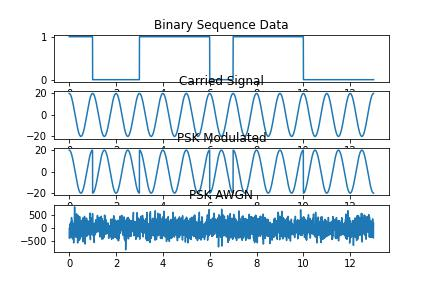
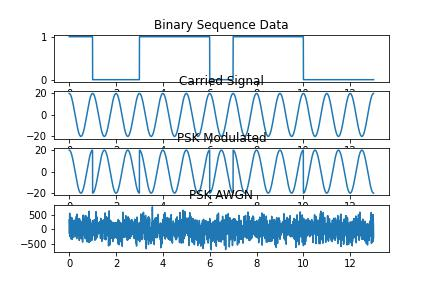
update psk

Changed region(s): [[0.1505, 0.7188, 0.8727, 0.875], [0.0602, 0.7812, 0.1204, 0.875]]

diff --git a/Dat_PSK/psk.py b/Dat_PSK/psk.py
@@ -1,5 +1,6 @@
 # %%
 #import
+import math
 import matplotlib.pyplot as plt
 import numpy as np
 
@@ -15,9 +16,8 @@ n_samples = data.size * samples_per_bit # total samples
 
 time = np.linspace(0, data.size, n_samples) # create time domain
 
-A = 10; #amplitude carrier signal
+A = 20; #amplitude carrier signal
 
-mul = 10
 
 # %%
 #binary seq
@@ -27,12 +27,21 @@ carrier_signal_1 = A*np.cos(2*np.pi * freq * time)
 carrier_signal_2 = A*np.cos(2*np.pi * freq * time + np.pi)
 
 #psk modulation
-phase = np.pi*bnr_seq + np.pi # +180degree if 0 else +360deg
-psk = A*np.cos(2*np.pi * freq * time + phase)
+# phase = np.pi*bnr_seq + np.pi # +180degree if 0 else +360deg
+# psk = A*np.cos(2*np.pi * freq * time + phase)
+psk = []
+for i in range (0,time.size):
+    if bnr_seq[i] == 0:
+       psk.append(carrier_signal_2[i])
+    else:
+       psk.append(carrier_signal_1[i])
+    
+
 #noise 
 
-N0 = 2  #variance
-noise = 10 * np.sqrt(N0/2) * np.random.randn(n_samples) 
+N0 = 1000  #variance
+mul = 10  # noise's magnitude
+noise = mul * np.sqrt(N0/2) * np.random.randn(n_samples) 
 #r: psk with noise
 r = psk + noise
 
@@ -41,21 +50,30 @@ r = psk + noise
 plt.subplot(4, 1, 1)
 plt.plot(time, bnr_seq)
 plt.title("Binary Sequence Data")
+# plt.savefig('./pic/data.jpg')
+# plt.show()
 
 plt.subplot(4, 1, 2)
 plt.plot(time, carrier_signal_1)
 plt.title("Carried Signal")
+# plt.savefig('./pic/carrier_signal.jpg')
+# plt.show()
 
 
 plt.subplot(4, 1, 3)
 plt.plot(time, psk)
 plt.title("PSK Modulated")
+# plt.savefig('./pic/psk_signal.jpg')
+
+# plt.show()
 
 plt.subplot(4, 1, 4)
 plt.plot(time, r)
-plt.title("PSK Modulated with noise")
+plt.title("PSK AWGN")
+plt.savefig('./pic/psk_AWGN.jpg')
 
 plt.tight_layout()
+plt.savefig('./pic/signal.jpg')
 
 plt.show()
 
@@ -94,5 +112,6 @@ print(demodulated_data)
 print("demodulate with noise")
 error = np.sum(np.abs(data - demodulated_data)) / data.size
 print("error: %5.2f%%" % (error*100))
+print(mul)
 
 
